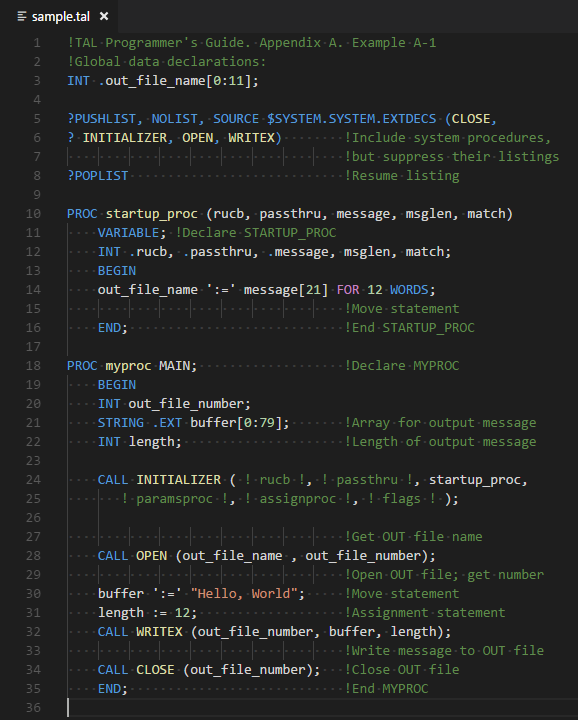
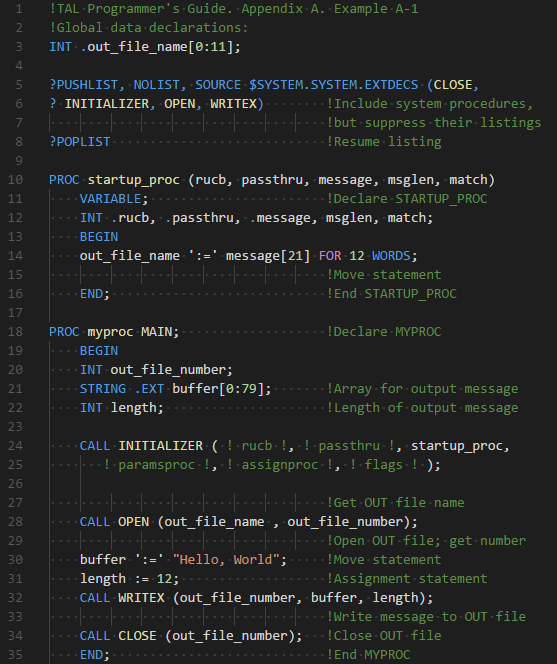
Updated sample.tal image and added it to the readme.

Changed region(s): [[0.0305, 0.0, 0.9767, 0.994], [0.5799, 0.5723, 0.9461, 0.6325], [0.6104, 0.0, 0.7325, 0.0904]]

diff --git a/README.md b/README.md
@@ -1,2 +1,5 @@
 # TAL source colouriser for Visual Studio Code
 Syntax highlighting for TAL: Transaction Application Language.
+
+## What does it look like?
+ ![sample.tal](https://raw.githubusercontent.com/manoutoftime/vscode_tal/master/images/sample.png)
